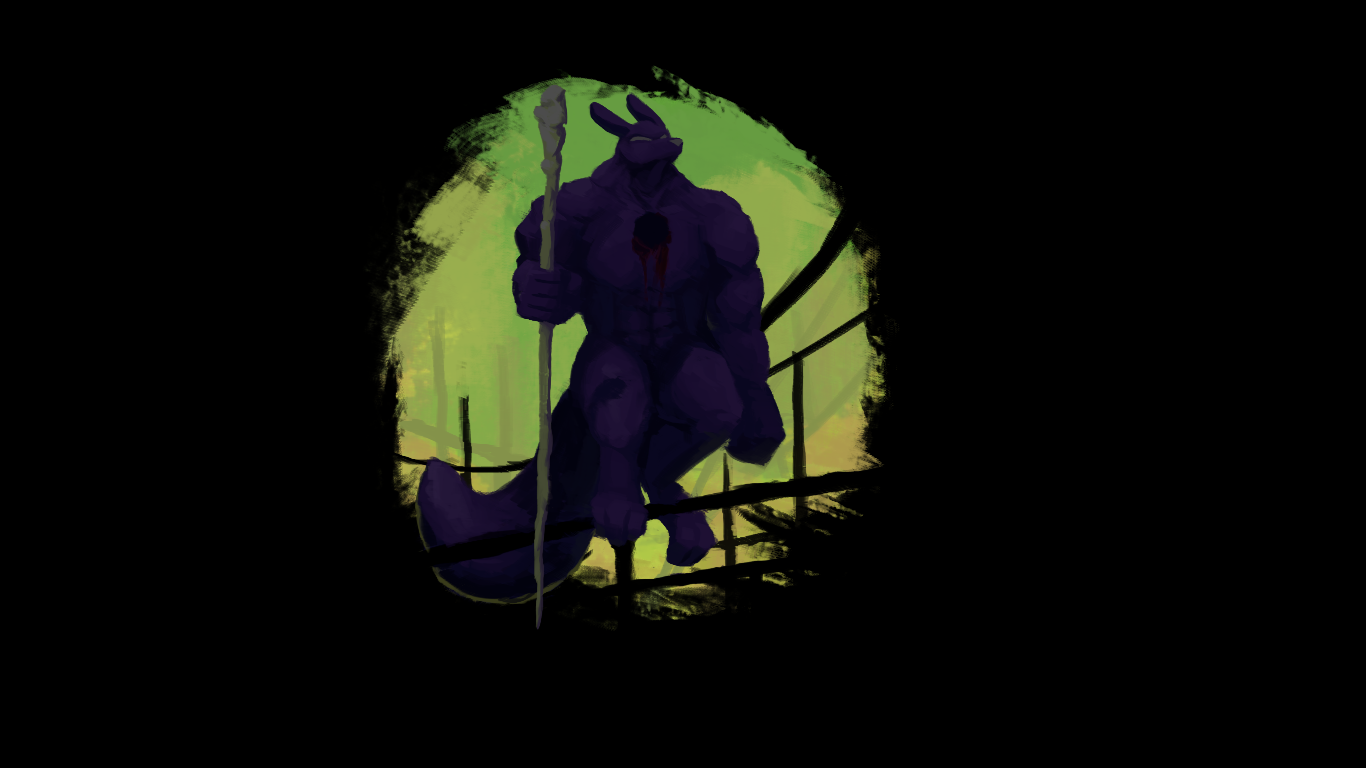
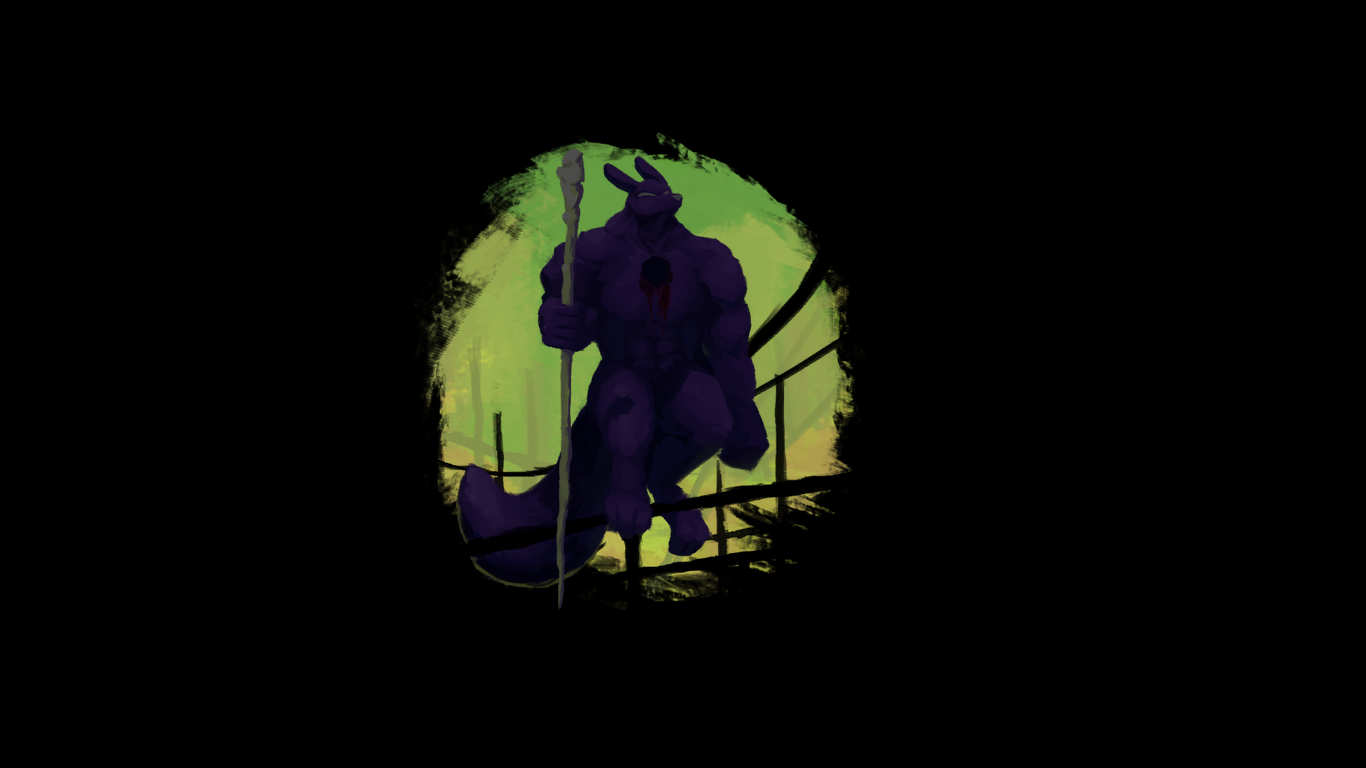
Reframe Primal Spearmaster portrait against the Artificer reference
First build placed the source art 1:1 and centred its whole drawn area. In-game
that ran off the top of the screen and overlapped the name/description text.

The first correction was also wrong, and the reason is worth keeping: it targeted
coordinates measured off a screenshot. The game draws a portrait layer ~83px higher
than that layer's position in its own PNG -- measured by aligning each PNG composite
against a real screenshot of it, Artificer dy=-88 (IoU 0.889) and Spearmaster dy=-78
(IoU 0.959), the spread being parallax (80/depth, ~22-38px). So the screenshot
numbers already had that offset baked in, and using them as PNG coordinates applied
it twice. Cause of the offset is still unidentified and is written up as Gotcha #10
rather than left as folklore.

Fix frames the art purely in PNG space against the known-good Artificer portrait,
which occupies x 401..963 y 132..670 in its own PNGs: scale the source's drawn extent
to the same height (0.846) and centre it on that box. The result lands on x 370..996
y 132..670 -- the same vertical band as the reference, so it clears the title text by
the same margin and keeps ~98px bottom / ~132px top slack for parallax.

Verified by simulating the render offset against the real UI, and by side-by-side
with the Artificer composite in the same coordinate space. Deployed and byte-verified
against the install. The corrected framing has not yet been seen on screen.

Changed region(s): [[0.2767, 0.0938, 0.6457, 0.8125], [0.4612, 0.3125, 0.4919, 0.3438]]

diff --git a/scripts/build-spearmaster-scene.py b/scripts/build-spearmaster-scene.py
@@ -8,9 +8,26 @@ PrimalSpearmasterScene forces MenuDepthIllustration.MenuShader.Basic on every la
 file's header for why (Basic is the only shader that treats a PNG as a plain image rather than a
 half-height colour-over-depth-map stack).
 
-The 1024 -> 1366x768 step is a pure translate, no scaling: the union of all drawn content is
-(209,214)-(951,852), whose centre lands on the screen centre (683,384) at offset (+103,-149).
-That frames the art with even 312px side and 65px top/bottom margins.
+The 1024 -> 1366x768 step is a scale plus a translate, both derived by measurement rather than
+taste. A first attempt placed the art 1:1 and centred the whole drawn area; in-game that ran off
+the top of the screen and collided with the name/description text.
+
+**Do not frame this art against a screenshot's own coordinates.** The game draws a portrait layer
+roughly 83px HIGHER than the layer's own position in its PNG. Measured by aligning each PNG
+composite against a real screenshot of it (best intersection-over-union over candidate shifts):
+Artificer dy=-88 at IoU 0.889, Spearmaster dy=-78 at IoU 0.959 -- the ~10px spread is parallax,
+which moves a layer by up to 80/depth (~22-38px) depending on when the shot was taken. Mistaking
+screen coordinates for PNG coordinates is exactly what made the first correction wrong a second
+time, so the target below is expressed purely in PNG space.
+
+In PNG space the known-good Artificer portrait occupies x 401..963, y 132..670 (its full drawn
+extent, i.e. anything not pure black). This art is scaled and placed so its own full drawn extent
+lands on that same box: source extent (210,214)-(949,850), centre (580,532), scaled by
+538/636 = SCALE so the heights match, then centred on TARGET_CENTRE. The result lands on
+x 370..996, y 132..670 -- the same vertical band as Artificer, so it clears the title text by the
+same margin the reference does, with ~98px of bottom and ~132px of top slack for parallax.
+
+Re-measure and update SRC_EXTENT_CENTRE/SCALE if the source art is ever redrawn.
 """
 
 from pathlib import Path
@@ -22,15 +39,25 @@ SRC = ROOT / "src/Primal/art-source/primal spearmaster"
 DEST = ROOT / "src/Primal/scenes/primal spearmaster"
 
 SCREEN = (1366, 768)
-# Crop box on the 1024x1024 source that maps it onto the 1366x768 screen at offset (+103,-149).
-# PIL fills out-of-bounds area with transparent, which is exactly what the non-backdrop layers want.
-BOX = (-103, 149, 1263, 917)
+SOURCE = 1024
+
+SCALE = 0.846               # 538 / 636: source drawn-extent height -> Artificer's drawn-extent height
+SRC_EXTENT_CENTRE = (580, 532)
+TARGET_CENTRE = (683, 401)  # canvas centre horizontally; Artificer's own drawn-extent centre vertically
+
+# Where the scaled source sits in the PNG, and so the crop box that realises it. PIL fills
+# out-of-bounds area with transparent, which is exactly what the non-backdrop layers want.
+_OX = round(TARGET_CENTRE[0] - SRC_EXTENT_CENTRE[0] * SCALE)
+_OY = round(TARGET_CENTRE[1] - SRC_EXTENT_CENTRE[1] * SCALE)
+BOX = (-_OX, -_OY, -_OX + SCREEN[0], -_OY + SCREEN[1])
 
 DARKEN = 0.30  # locked-character "Dark" variants; alpha preserved, RGB scaled.
 
 
 def layer(name):
-    return Image.open(SRC / name).convert("RGBA").crop(BOX)
+    scaled = round(SOURCE * SCALE)
+    im = Image.open(SRC / name).convert("RGBA").resize((scaled, scaled), Image.LANCZOS)
+    return im.crop(BOX)
 
 
 def stack(*layers):

diff --git a/src/Primal/AI_CONTEXT.md b/src/Primal/AI_CONTEXT.md
@@ -46,9 +46,11 @@ Built but **not yet tested in-game**:
 - Chains rescan fix (2026-11-10): untracked creatures in a tracked room get picked up within half a
   second. See "Chains: creatures left unchained" below.
 - Survivor Community Challenges count requirement (2026-11-10), see its section below.
-- Primal Spearmaster portrait art (2026-11-14): confirmed *loading* in-game (log line, no warnings),
-  but nobody has actually looked at it on screen yet — check framing/parallax at each depth and the
-  two ending scenes. See its own section below.
+- Primal Spearmaster portrait art (2026-11-14): confirmed loading AND seen on screen; the user
+  reported the first build was mis-framed (ran off the top, collided with the title text) and the
+  framing was reworked against the Artificer reference — see Gotcha #10. The reframed art is
+  deployed but **the corrected framing has not itself been seen on screen yet**. Still unseen at
+  any point: the two ending scenes (`End_Spear`, `AltEnd_Spearmaster`).
 - Decided 2026-11-10 (user): Saint's No Hold skips the first cycle by default
   (`NoHoldSettings.DefaultInertUntilCycleFor` -> 1 for Saint, 0 for everyone else); Chains escape
   timer off by default (`DefaultEscapeTimerSeconds = 0`, was 90). Saved Remix values still win.
@@ -84,9 +86,16 @@ scene art from 'scenes\primal spearmaster'`, with no unmapped-layer warnings and
 - **The art pipeline is new and worth reusing.** The user supplies hand-drawn layers on one shared
   canvas; `scripts/build-spearmaster-scene.py` turns them into the 1366x768 per-layer PNGs the game
   wants. Sources live in `src/Primal/art-source/primal spearmaster/` (NOT deployed); generated
-  output goes to `src/Primal/scenes/primal spearmaster/` (deployed). The 1024 -> 1366x768 step is a
-  pure translate, no scaling — content union `(209,214)-(951,852)` centred on `(683,384)` at offset
-  `(+103,-149)`. Re-run the script after any source edit; don't hand-edit the generated PNGs.
+  output goes to `src/Primal/scenes/primal spearmaster/` (deployed). Re-run the script after any
+  source edit; don't hand-edit the generated PNGs.
+- **Framing took two tries — see Gotcha #10 before making art for another character.** The first
+  build placed the source 1:1 and centred its whole drawn area; in-game it ran off the top of the
+  screen and collided with the name/description text. The first *correction* was also wrong, for a
+  more interesting reason: it targeted coordinates measured off a screenshot, but the game draws a
+  layer ~83px higher than its position in the PNG, so the screenshot numbers already had that
+  offset baked in and applying them re-applied it. The fix that worked frames the art purely in PNG
+  space against the known-good Artificer art (`x 401..963, y 132..670`), which lands it on exactly
+  the same on-screen band the reference occupies.
 - **Layer sizing rule, now confirmed from `MenuDepthIllustration`'s own constructor** (worth knowing
   before making art for character #3): it sets `size = (width, height/2)` and then, for `Basic`/`Rain`
   ONLY, doubles `size.y` back and resets `scaleY` to 1. So `Basic` = a plain image drawn 1:1; every
@@ -730,6 +739,34 @@ that needs nudging — anything going through `OpScrollBox`, or any other framew
 own child-tracking, is a candidate. Also: synthetic/automated clicks against this game window have
 been unreliable in testing (hover state updates correctly, but `OnClick` itself is intermittent) —
 a real in-person test is still the reliable way to confirm any Remix UI fix.
+
+### Gotcha #10 — a portrait layer renders ~83px HIGHER than its own position in the PNG
+
+Framing new scene art by measuring a screenshot and treating those coordinates as PNG coordinates
+produces art that sits too high and gets clipped at the top edge. **The game draws a portrait layer
+about 83px higher (in 1366x768 canvas units) than where the content sits in its own PNG.**
+
+Measured, not guessed: composite a character's layer PNGs, then search for the (dx, dy) shift that
+best aligns that composite's mask against a real screenshot of it (best intersection-over-union).
+Artificer came out at `dy=-88` (IoU 0.889) and Spearmaster at `dy=-78` (IoU 0.959), consistently,
+across every scene variant. The ~10px spread between them is parallax — `MenuDepthIllustration`
+moves a layer by up to `80/depth` (~22-38px) depending on the instant the shot was taken — so treat
+the offset as ~83px ± parallax, not an exact constant. Horizontal is 1:1 (dx within a few px).
+
+**The cause is not identified.** `MenuDepthIllustration.GrafUpdate` overwrites `sprite.y` with its
+own `pos.y - CamPos.y*80/depth`, discarding the owner's position, and with `anchorY = 0` and
+`positions.txt` all `0, 0` a 1366x768 texture should land exactly on the screen — yet it measurably
+does not. Don't spend time rederiving this from the decompiled source before checking whether it
+still reproduces; it may be a Futile/atlas or screen-scaling detail outside `MenuScene` entirely.
+
+**How to avoid the whole problem:** never frame new art against screen coordinates. Frame it in PNG
+space against an existing, known-good portrait — the Artificer art occupies x 401..963, y 132..670
+in its own PNGs, and anything placed on that same box lands where Artificer lands, offset and all.
+`scripts/build-spearmaster-scene.py` does exactly this and documents the numbers in its header.
+
+**Lesson:** when matching new art to existing art, compare the two ASSETS in their own coordinate
+space, not two screenshots — a screenshot has the engine's own unexplained transforms already baked
+into it, and copying numbers out of one silently imports those transforms a second time.
 
 ### Gotcha #9 — changing a `Configurable<T>`'s default in source code never retroactively changes an already-saved value
 
